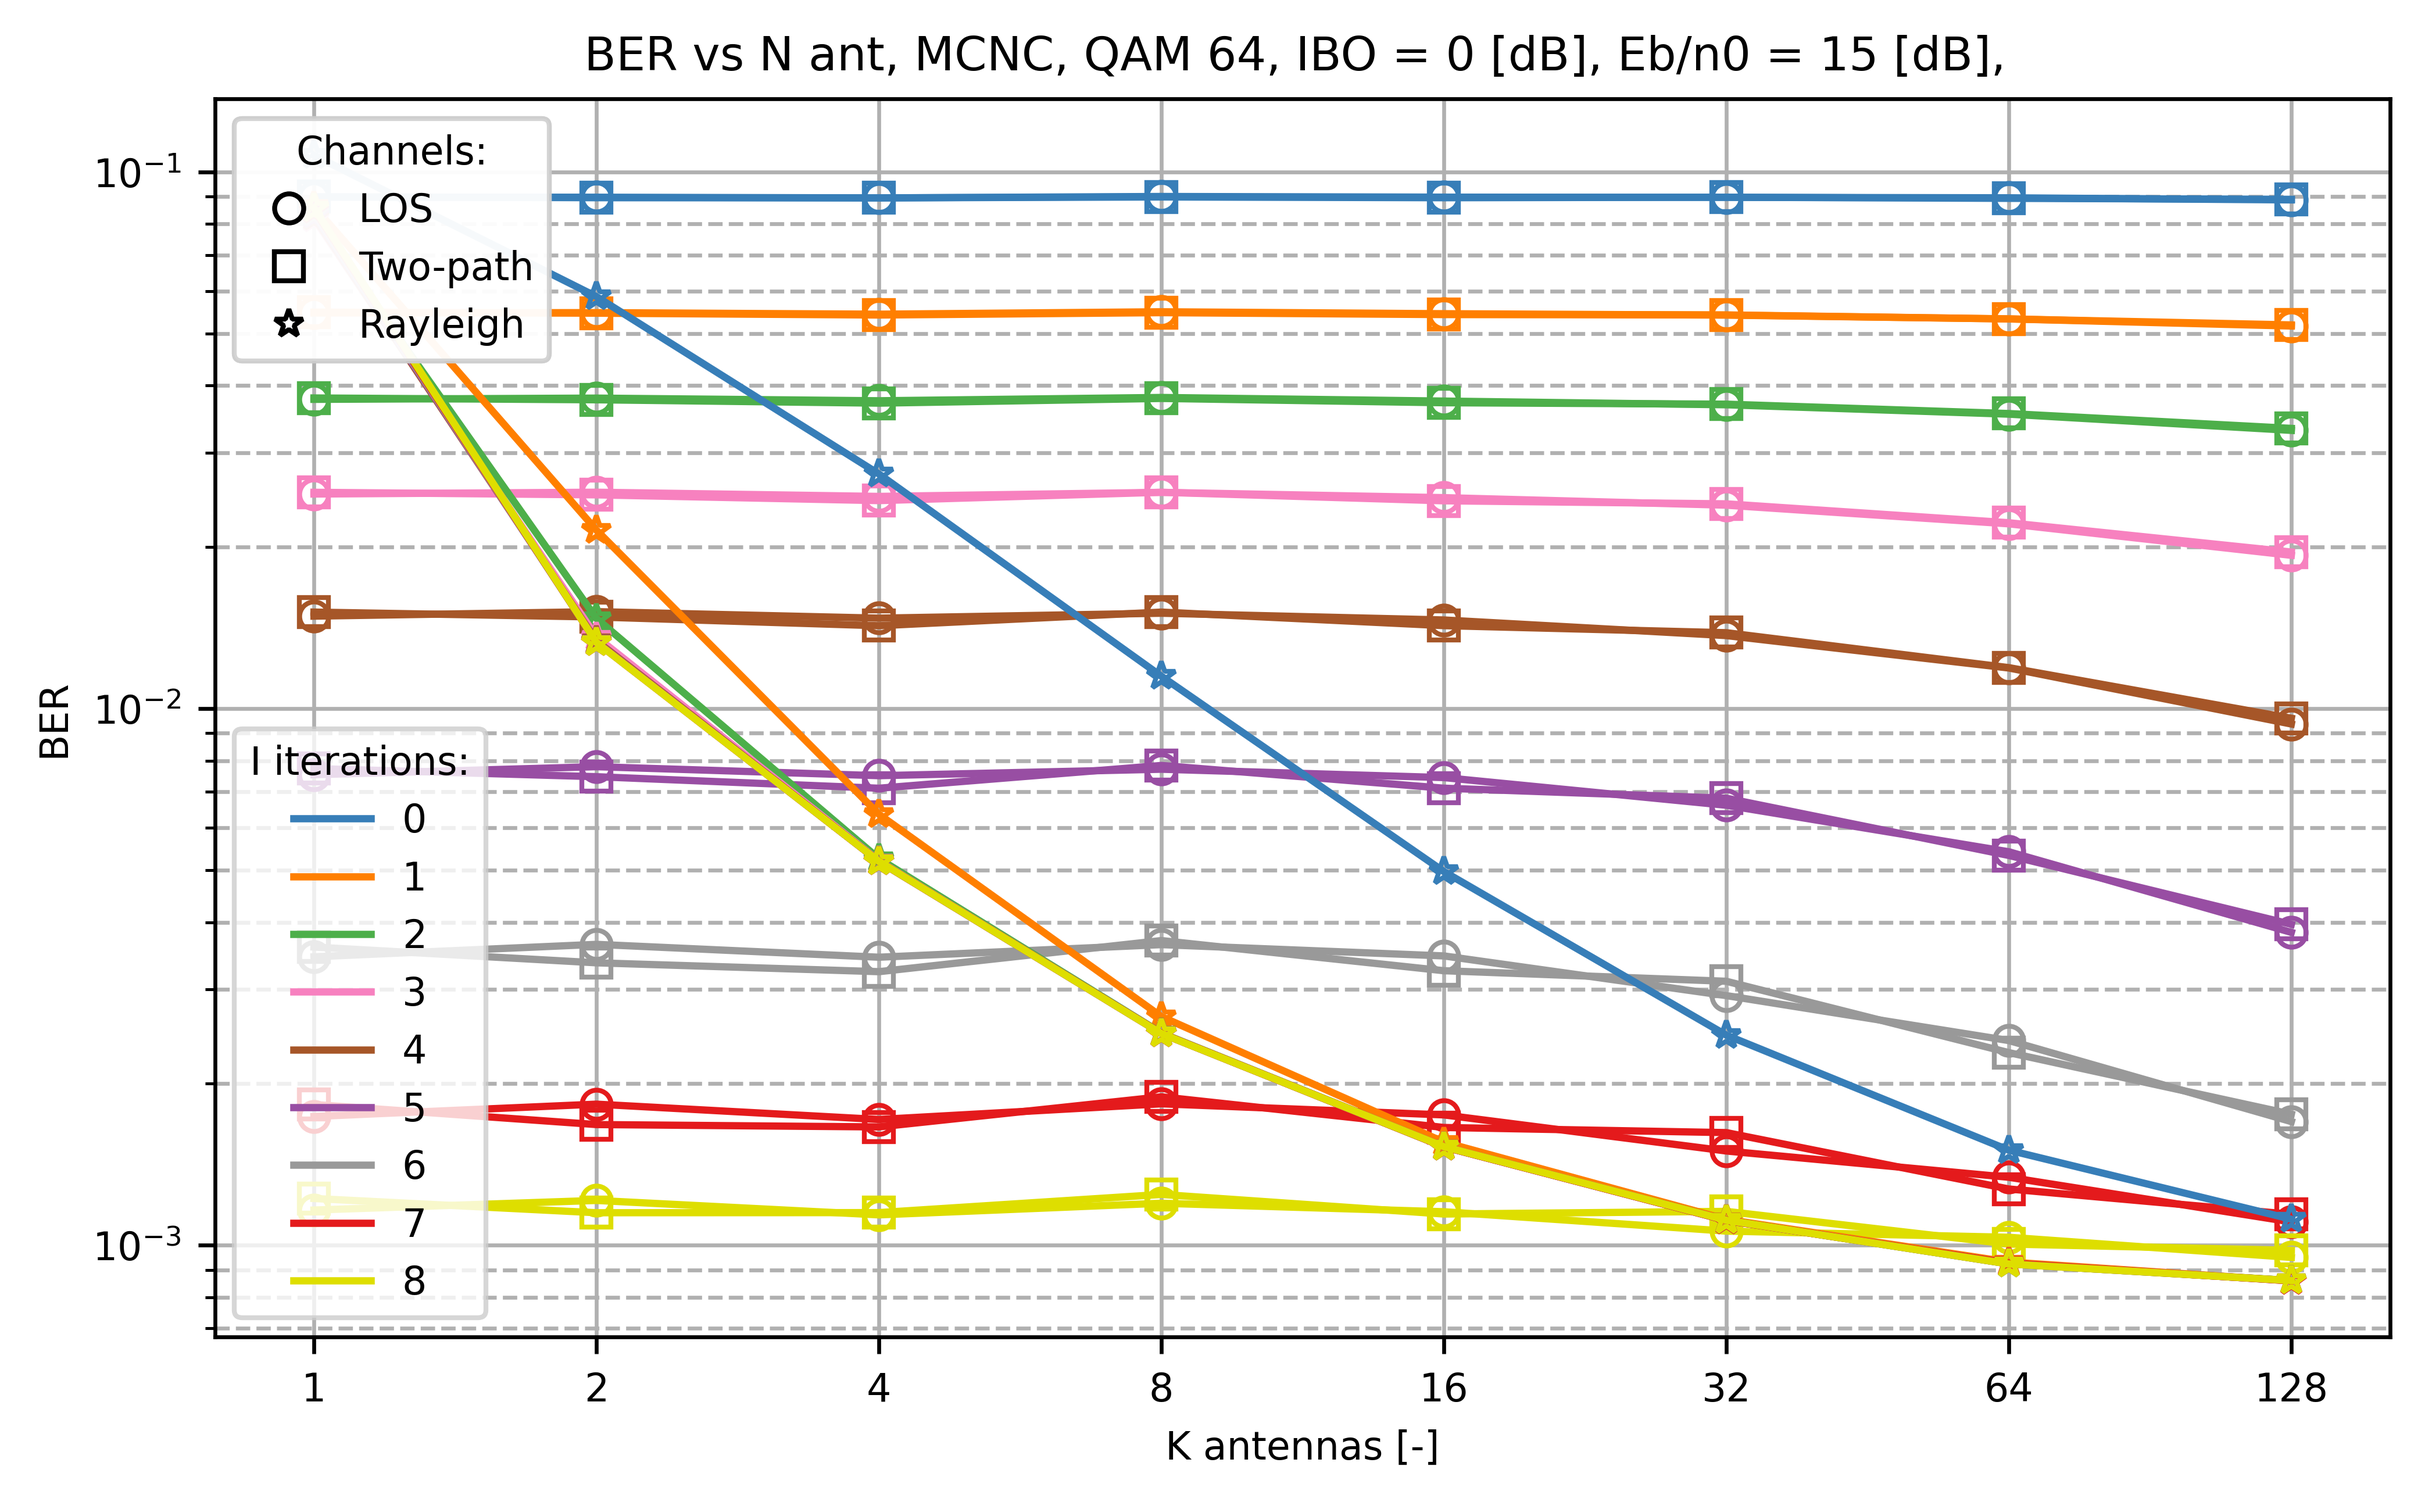
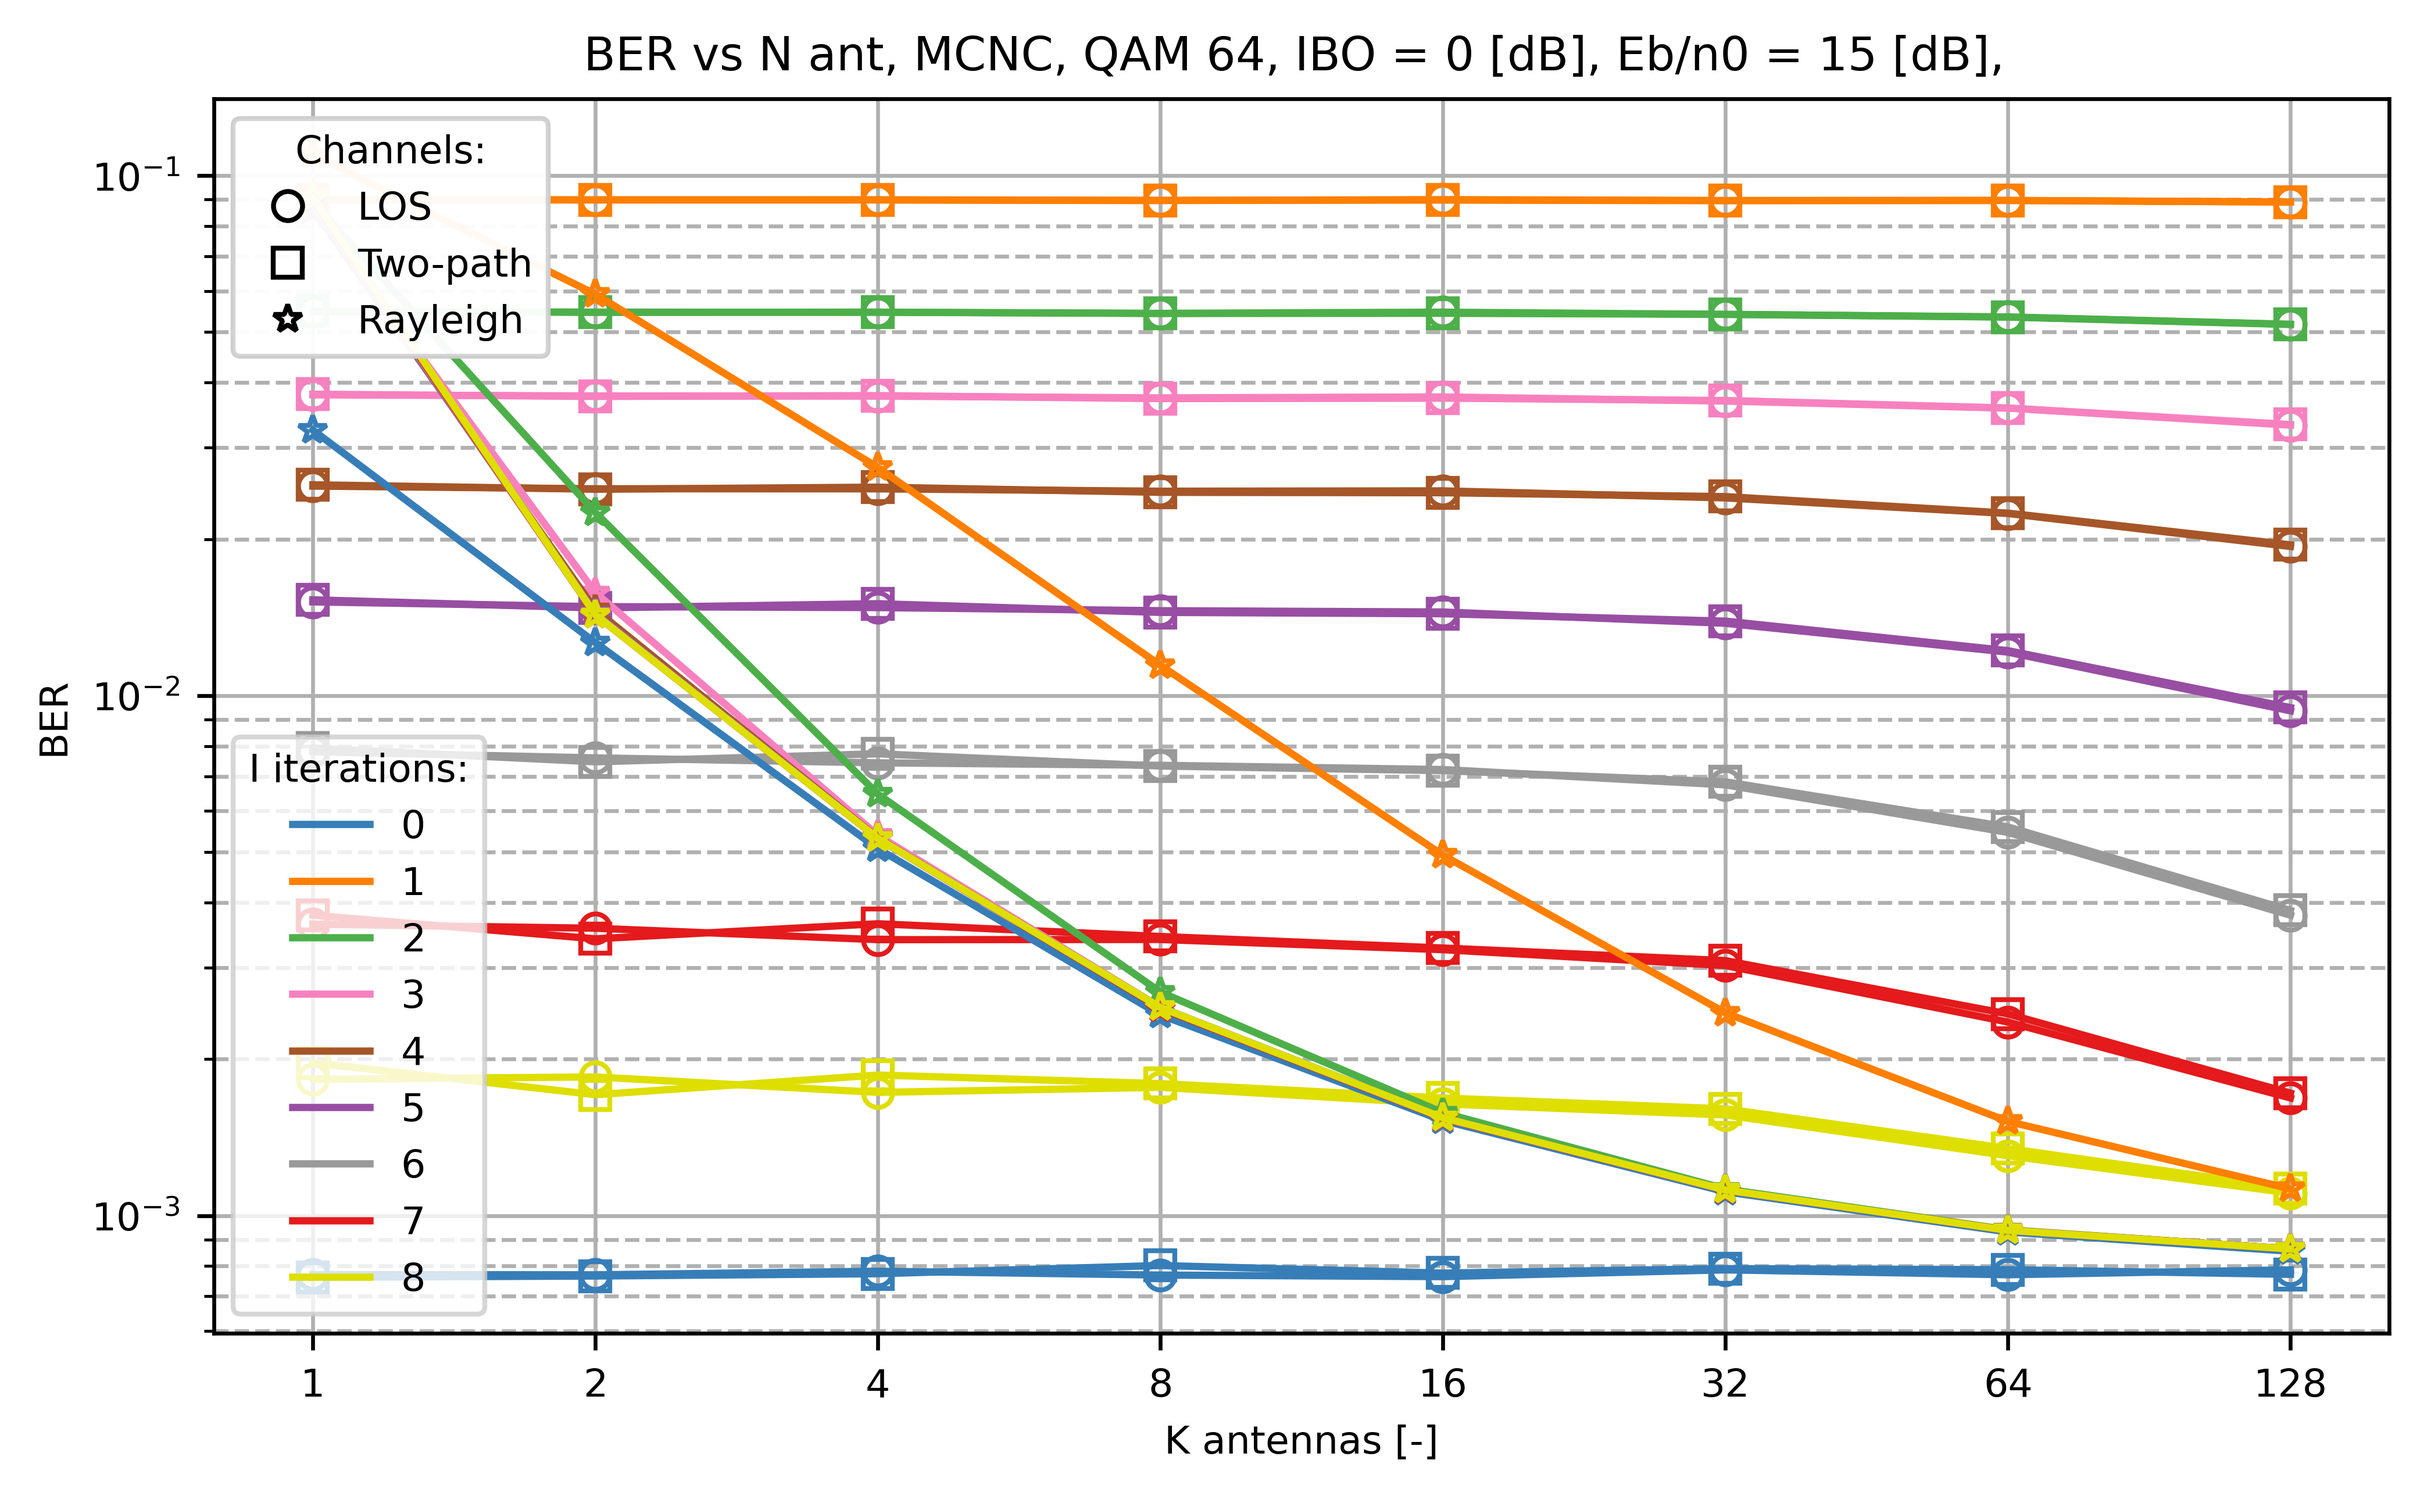
mcnc ber vs nant results upload

Changed region(s): [[0.0312, 0.0932, 0.9976, 0.9324], [0.0312, 0.8081, 0.0935, 0.8392]]

diff --git a/main_mp_clipping_noise_cancellation/main_mp_miso_mcnc_ber_vs_nant_vs_chan.py b/main_mp_clipping_noise_cancellation/main_mp_miso_mcnc_ber_vs_nant_vs_chan.py
@@ -37,8 +37,8 @@ if __name__ == '__main__':
     cnc_n_iter_lst = [1, 2, 3, 4, 5, 6, 7, 8]
     # standard RX
     cnc_n_iter_lst = np.insert(cnc_n_iter_lst, 0, 0)
-    incl_clean_run = False
-    reroll_chan = True
+    incl_clean_run = True
+    reroll_chan = False
     # print("Eb/n0 value:", ebn0_db)
     # print("CNC N iterations:", cnc_n_iter_lst)
     # print("IBO values:", ibo_arr)
@@ -104,9 +104,9 @@ if __name__ == '__main__':
                                         bits_sent_max=bits_sent_max, is_mcnc=True)
             mp_link_obj.set_snr(snr_db_val=snr_db_val)
 
-            n_err_shared_arr = mp.Array(ctypes.c_double, len(cnc_n_iter_lst), lock=True)
-            n_bits_sent_shared_arr = mp.Array(ctypes.c_double, len(cnc_n_iter_lst), lock=True)
-            bers_per_ite = np.zeros(len(cnc_n_iter_lst))
+            n_err_shared_arr = mp.Array(ctypes.c_double, len(cnc_n_iter_lst)+1, lock=True)
+            n_bits_sent_shared_arr = mp.Array(ctypes.c_double, len(cnc_n_iter_lst)+1, lock=True)
+            bers_per_ite = np.zeros(len(cnc_n_iter_lst)+1)
 
             proc_seed_lst = seed_rng.integers(0, high=sys.maxsize, size=(num_cores, 3))
             processes = []

diff --git a/vm_scripts/vm_runner.py b/vm_scripts/vm_runner.py
@@ -13,9 +13,9 @@ filename_str_lst = [
     # "main_mp_clipping_noise_cancellation/main_mp_miso_cnc_ber_vs_nant_vs_chan.py",
 
     # "main_mp_clipping_noise_cancellation/main_mp_miso_mcnc_ber_vs_ebn0.py",
-    "main_mp_clipping_noise_cancellation/main_mp_miso_mcnc_constant_ber_req_ebn0_vs_ibo.py",
-    "main_mp_clipping_noise_cancellation/main_mp_miso_mcnc_ber_vs_ibo.py"
-    # "main_mp_clipping_noise_cancellation/main_mp_miso_mcnc_ber_vs_nant_vs_chan.py",
+    "main_mp_clipping_noise_cancellation/main_mp_miso_mcnc_ber_vs_nant_vs_chan.py"
+    # "main_mp_clipping_noise_cancellation/main_mp_miso_mcnc_ber_vs_ibo.py"
+    # "main_mp_clipping_noise_cancellation/main_mp_miso_mcnc_constant_ber_req_ebn0_vs_ibo.py",
 ]
 
 for idx, filename_str in enumerate(filename_str_lst):

diff --git a/main_mp_clipping_noise_cancellation/main_mp_miso_mcnc_constant_ber_req_ebn0_vs_ibo.py b/main_mp_clipping_noise_cancellation/main_mp_miso_mcnc_constant_ber_req_ebn0_vs_ibo.py
@@ -35,7 +35,7 @@ if __name__ == '__main__':
     n_ant_arr = [64]
     target_ber_arr = [1e-2]
     ebn0_step_arr = [0.5]
-    ibo_step_arr = [0.5]
+    ibo_step_arr = [0.25]
     cnc_n_iter_lst = [1, 2, 3, 4, 5, 6, 7, 8]
     cnc_n_iter_lst = np.insert(cnc_n_iter_lst, 0, 0)
     incl_clean_run = False
